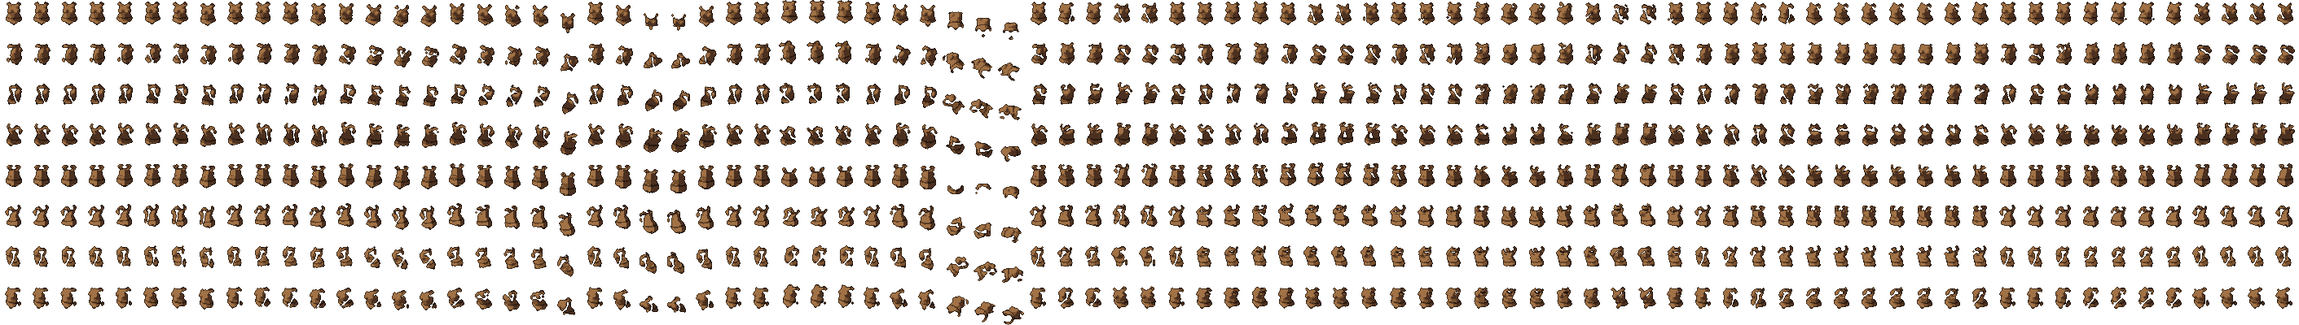
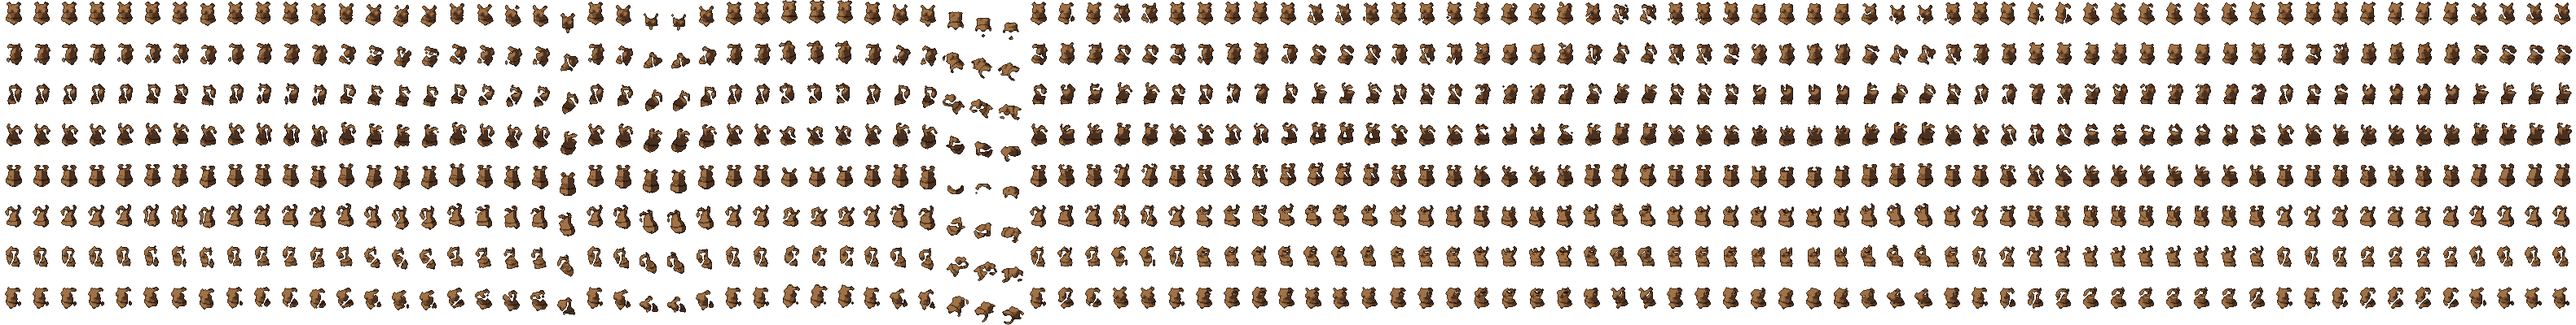
Give picks their own overhead swing
Picks swing "mine": raised straight over the head and brought down into
the rock before the feet. RO bodies play their own clip for it; 2D and
LPC characters draw it as a chop.

diff --git a/tools/art/ro_sprites/clips.py b/tools/art/ro_sprites/clips.py
@@ -157,7 +157,7 @@ def chop(t):
 	"""Felling, with both hands on the handle (the left below the right): the axe goes back and
 	up over the right shoulder as the trunk turns away, then comes round and down across the
 	body as it turns into the blow, and bites in front at waist height with the blade only a
-	little off level, as into a standing trunk. Picks and hoes play it too."""
+	little off level, as into a standing trunk."""
 	grip = {"L_hold": -0.08, "R_arm_fwd": 40, "R_arm_down": 60, "R_elbow": 60}
 	ready = {**grip, **tool(0.12, 0.3, -0.3, 0, 40, 0, -50)}
 	wind = {**grip, **tool(0.3, -0.02, 0.22, -150, 35, -70, -10),
@@ -167,6 +167,21 @@ def chop(t):
 	strike = {**grip, **tool(0.1, 0.36, -0.28, 20, -8, 90, -15),
 		"hips_turn": 8, "spine_turn": 12, "chest_turn": 25, "head_turn": -10, "spine_bend": 14,
 		**both("knee", 14), "L_hip": 14, "R_hip": 4}
+	return keyed([(0.0, ready), (0.35, wind), (0.5, wind), (0.62, swing), (0.74, strike), (0.88, strike), (1.0, ready)], t)
+
+
+def mine(t):
+	"""A pick, with both hands on the handle: raised straight up over the head with the point
+	up and the body leaning back, then brought down in front, the trunk bending into the
+	blow and the knees giving, the point driven down into the rock before the feet."""
+	grip = {"L_hold": -0.08, "R_arm_fwd": 40, "R_arm_down": 60, "R_elbow": 60}
+	ready = {**grip, **tool(0.12, 0.3, -0.3, 0, 40, 0, -50)}
+	wind = {**grip, **tool(0.05, 0.12, 0.56, 180, 55, 0, 35),
+		"spine_bend": -8, "head_bend": -10, "R_hip": 4, "L_hip": 10, "L_knee": 6}
+	swing = {**grip, **tool(0.05, 0.32, 0.3, 0, 70, 0, -20),
+		"spine_bend": 6, "L_hip": 12, "L_knee": 8}
+	strike = {**grip, **tool(0.05, 0.42, -0.3, 0, -30, 180, -60),
+		"spine_bend": 24, "head_bend": 10, **both("knee", 20), "L_hip": 24, "R_hip": 10}
 	return keyed([(0.0, ready), (0.35, wind), (0.5, wind), (0.62, swing), (0.74, strike), (0.88, strike), (1.0, ready)], t)
 
 
@@ -215,6 +230,7 @@ CLIPS = {
 	"slash": (6, 16, False, slash),
 	"thrust": (8, 18, False, thrust),
 	"chop": (10, 22, False, chop),
+	"mine": (10, 22, False, mine),
 	"shoot": (12, 22, False, shoot),
 	"cast": (10, 18, False, cast),
 }

diff --git a/tools/art/ro_sprites/gear.py b/tools/art/ro_sprites/gear.py
@@ -7,8 +7,8 @@ so the layer holds just the pixels of the item that show on that body, and
 with a depth map that puts the layers together in any combination
 (compose.py).
 
-Held things play the game's swing for them (world_view.gd swing_kind: axes and
-picks chop, the spear and the hoe thrust, the bow shoots, the rod casts) and
+Held things play the game's swing for them (world_view.gd swing_kind: axes
+chop, picks mine, the spear and the hoe thrust, the bow shoots, the rod casts) and
 are carried in the clips that are not swings. Their cell is larger, with the
 ground point at the same place relative to the body (HELD_CELL, HELD_FOOT).
 """
@@ -34,9 +34,9 @@ HELD = {
 	"flint_axe": "chop",
 	"axe": "chop",
 	"iron_axe": "chop",
-	"flint_pick": "chop",
-	"pickaxe": "chop",
-	"iron_pickaxe": "chop",
+	"flint_pick": "mine",
+	"pickaxe": "mine",
+	"iron_pickaxe": "mine",
 	"hoe": "thrust",
 	"spear": "thrust",
 	"bow": "shoot",

diff --git a/tools/art/ro_sprites/review_sheet.py b/tools/art/ro_sprites/review_sheet.py
@@ -18,7 +18,7 @@ from PIL import Image, ImageDraw, ImageFont
 ROWS = ["s", "se", "e", "ne", "n", "nw", "w", "sw"]
 CLIP_NAMES = {"idle": "стойка", "walk": "ходьба", "run": "бег", "sit": "сидит", "pickup": "поднять с земли",
 	"hurt": "получил удар", "dead": "падение", "slash": "удар рукой", "thrust": "укол (копьё, мотыга)",
-	"chop": "рубка (топоры, кирки)", "shoot": "выстрел из лука", "cast": "заброс удочки"}
+	"chop": "рубка (топоры)", "mine": "кирка: сверху вниз", "shoot": "выстрел из лука", "cast": "заброс удочки"}
 FONT = os.path.join(os.path.dirname(os.path.abspath(__file__)), "..", "..", "..", "assets", "fonts", "monogram.ttf")
 GRASS = "#4f7a3a"
 CELL = (96, 112)  # frame cell, sprite pixels: wide enough for a swung tool

diff --git a/tools/art/ro_sprites/export_game.py b/tools/art/ro_sprites/export_game.py
@@ -38,7 +38,7 @@ DIRECTIONS = ["s", "se", "e", "ne", "n", "nw", "w", "sw"]
 BODIES = {"male": ("base:human_ro_m", "base:human_ro_hair_tousled"),
 	"female": ("base:human_ro_f", "base:human_ro_hair_twintails")}
 # Game swings (world_view.gd swing_kind) -> clips.
-SWINGS = {"chop": "chop", "thrust": "thrust", "draw": "shoot", "lunge": "slash", "cast": "cast"}
+SWINGS = {"chop": "chop", "mine": "mine", "thrust": "thrust", "draw": "shoot", "lunge": "slash", "cast": "cast"}
 # Game equipment slots of the layers (content/base character_editor.json).
 SLOTS = {"hair_sample": "hair", **gear.WORN, **{item: "main_hand" for item in gear.HELD}}
 # What wins a tie or a cycle of the depth order: from the body outwards.

diff --git a/tools/art/import_lpc.py b/tools/art/import_lpc.py
@@ -109,7 +109,7 @@ BODY_ANIMATIONS = {
     "chop": {"frames": [5, 5, 4, 4, 3, 1, 0, 0, 0, 0], "fps": 22},
     "fish": {"frames": list(range(13)), "fps": 18},
 }
-SWINGS = {"chop": "chop", "thrust": "thrust", "draw": "shoot", "lunge": "slash", "cast": "fish"}
+SWINGS = {"chop": "chop", "mine": "chop", "thrust": "thrust", "draw": "shoot", "lunge": "slash", "cast": "fish"}
 # A thing in the hands without frames for an animation: what the body does instead.
 FALLBACK = {"idle": ["walk", 0], "run": ["walk", -1], "slash": ["chop", -1]}
 
